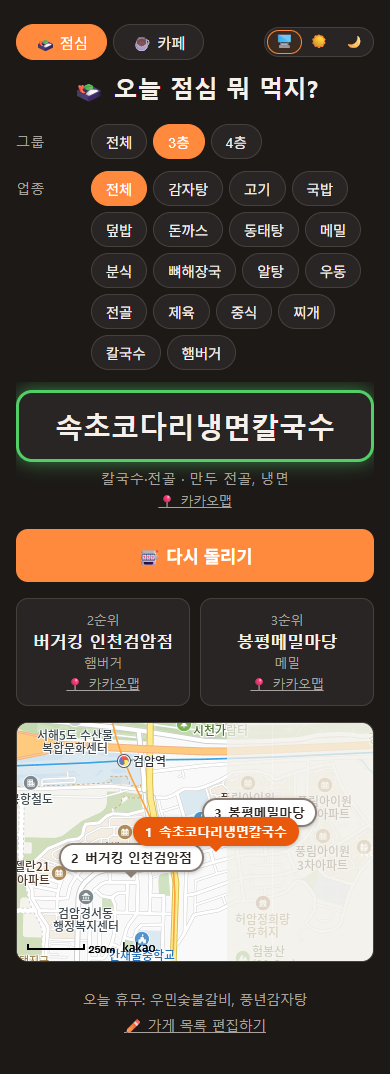
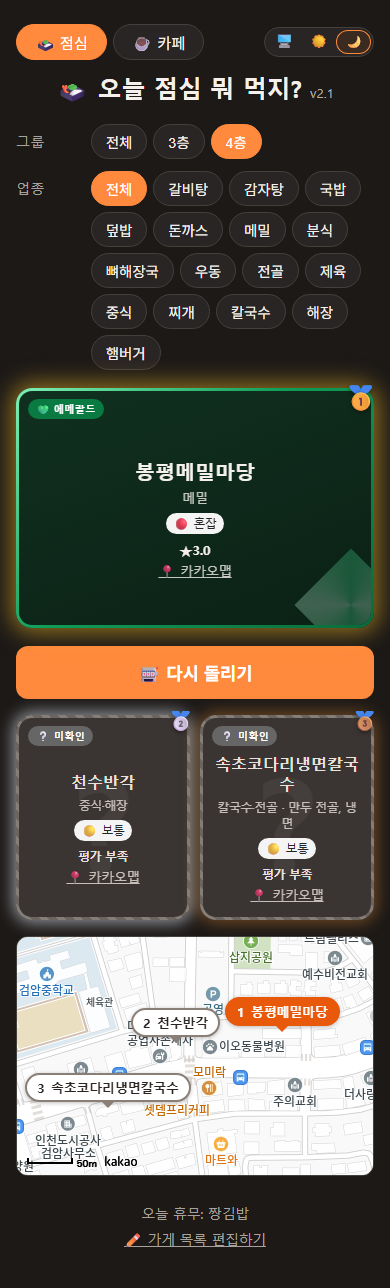
[2026-11-04] docs: README v2.1 정리(화면·데모 재촬영, 평가 창 이미지, 지역·혼잡도·좋아요 제거 배경)

diff --git a/docs/agents/handoffs/013-readme-v2.1.md b/docs/agents/handoffs/013-readme-v2.1.md
@@ -1,0 +1,43 @@
+# 013 README v2.1 정리 (문서·이미지)
+
+## 지시 (PM)
+- 배경(2026-11-04): v2.1 커밋·태그(`6486b4e`, `v2.1`)는 이미 푸시됨. README가 v2.1 화면·결정을 반영하지 못한 부분을 정리한 뒤 사용자가 main만 푸시하고, PM이 기존 `v2.1` 태그로 릴리스를 만든다. **태그는 건드리지 않는다.**
+- 변경 (모두 `README.md`와 `docs/images/`만, 소스 변경 없음 → `npm run bump` 불필요):
+  1. 맨 끝 가운데 정렬 블록 아래에 붙은 `릴리스 때 js/config.js의 APP_VERSION을 갱신합니다.` 줄 삭제(같은 안내가 `docs/SETUP.md`에 있는지 확인, 없으면 SETUP 배포 절로 옮김).
+  2. 화면 이미지 재촬영: `docs/images/lunch-light.png`, `lunch-dark.png`, `cafe-light.png`, `cafe-dark.png`, `demo.gif`를 현재 화면(제목 옆 `v2.1`, 결과 카드 혼잡도 배지, 등급 카드)으로 교체. 기존 파일과 같은 이름·비슷한 크기/비율 유지.
+     - **실제 게시 시트 데이터**로 찍는다(가짜 가게명 금지). 지도까지 나오게 하려면 로컬 서버를 **반드시 `localhost:5173`**으로 띄운다(카카오 키 허용 도메인). 현재 실제 시트는 지역이 `검암` 하나라 지역 줄은 안 보이는 것이 정상.
+     - 평가 창이 뜨지 않게(저장된 `last-pick` 없음) 찍는다. **실제 구글 폼 전송 금지.**
+     - `demo.gif`: 기존과 같은 흐름(돌리기 → 감속 → 2·3순위 → 1순위 공개 → 지도). GIF 인코딩은 이미 설치된 Python Pillow 사용 가능(프로젝트 의존성 추가 금지). 파일 크기는 기존 GIF와 비슷한 수준(크게 늘면 프레임·색 수 조정).
+  3. 동작 다이어그램(mermaid): `그룹·업종·휴무 필터` → `지역·그룹·업종·휴무 필터`. 구조 절의 `select.js` 설명도 `지역·그룹·업종·휴무 필터, 추첨`으로.
+  4. "🧠 고민했던 것들"에 `<details>` 항목 추가(기존 문체: 존댓말 구어체, 배경 → 결정 → 이유 짧게):
+     - **지역이 늘어도 코드를 고치지 않으려면** — 지역별 시트 탭 대신 `지역` 열(탭마다 gid 설정이 필요해지는 문제), 지역은 서로 겹치지 않아 `전체` 없음·하나만 선택, 그룹은 지역 안의 선택 단계, 지역별 마지막 그룹 기억, 지역 하나면 지역 줄 숨김(기존 화면 그대로), 같은 이름 체인점이 섞이지 않게 평점 키를 `모드+지역+가게명`으로.
+     - **혼잡도는 '확률'이 아니라 '정보'로** — 붐비는 곳을 덜 뽑으면 결과를 예측하기 어려워지고 공정한 랜덤이라는 원칙과 부딪힘 → 카드에 표시만 하고 2순위로 갈지는 사람이 판단.
+     - **좋아요를 뺀 이유** — 실제 응답을 보니 좋아요만 누른 경우 0건, 늘 별점과 같이 와 새 정보가 없었음 → 평가 창을 별점 하나로 단순화. (평가 창 배치를 "여러 대상 평가 = 이름 왼쪽·별 오른쪽"으로 정한 것도 한 줄 언급 가능)
+  5. 화면 절에 평가 창 스크린샷 1장 추가(`docs/images/rating.png`, 라이트, 가짜 설정의 복사본으로 찍어도 됨 — 단 가게명은 실제 시트 이름 사용, 전송 금지). 상단 배지 줄에 버전 배지 `![Version](https://img.shields.io/badge/version-v2.1-e8590c)` 추가.
+- DoD:
+  - D-1 README 렌더링 확인(로컬 마크다운 미리보기 또는 원문 대조): 이미지 경로 6개(4 PNG + GIF + rating.png) 모두 존재, mermaid 문법 깨짐 없음.
+  - D-2 새 이미지들을 직접 열어 확인: 버전 표시·혼잡도 배지 보임, 실제 가게명, 라이트/다크 구분. GIF 재생 흐름 정상, 파일 크기 기재(전/후).
+  - D-3 새 `<details>` 3개의 사실관계가 코드·인계 파일(006, 010)과 일치.
+  - D-4 `npm test` 전부 PASS(문서만 바꿨는지 확인), `git status`에 README·docs/images·이 인계 파일·worklog만.
+- 끝나면 아래 "구현 보고 1차" 절을 채우고 `herdr agent prompt lunch-pm "[codex→pm] 완료 013 구현 1차. 상세: docs/agents/handoffs/013-readme-v2.1.md"`를 보내고 턴을 끝낸다. 커밋하지 않는다.
+
+## 구현 보고 1차 (코덱스)
+
+- 변경 파일: `README.md`, `docs/images/lunch-light.png`, `lunch-dark.png`, `cafe-light.png`, `cafe-dark.png`, `demo.gif`, 신규 `rating.png`, 이 인계 파일·`docs/agents/worklog.md`만. 소스·설정·태그 변경 없음, bump 불필요.
+- README: 하단 APP_VERSION 안내 제거(SETUP 118행에 기존 안내 있음을 확인해 SETUP 변경 없음), Version v2.1 배지·평가 창 이미지 추가, Mermaid/구조 select.js 설명에 지역 반영, 지역 확장·혼잡도 정보 표시·좋아요 제거 배경의 details 3개 추가.
+- 촬영: **http://localhost:5173**에서 현재 소스를 그대로 제공하고 실제 게시 CSV·실제 평점 CSV·카카오 SDK/지도로 촬영. 지역 검암1개로 지역 줄 숨김 확인. 점심4층 결과는 봉평메밀마당(실제 평균3.0/에메랄드)·천수반각·속초코다리냉면칼국수, 카페4층 결과는 빽다방 인천검암2지구점·예그리나커피·떠기다방 검암점. 카페는 실제 평점 데이터가 없어 미확인 그대로 표현. 비교용 테마 캡처를 같은 결과로 맞추기 위해 촬영 중 난수 시드만 고정했고 데이터·등급·주소는 바꾸지 않음.
+- 실제 폼 전송 없음: 촬영 브라우저에서 POST fetch를 거부하도록 설정하고 보내기를 누르지 않음. 일반 결과 촬영은 last-pick 없는 초기 프로필 사용. rating.png만 실제 가게명3개로 기기 내 추천 기록을 만들어 평가 창을 열고 금복돈육식당4점 선택(전송 없음). 정적 캡처는 지도 위치까지 스크롤해 타일이 표시된 뒤 전체 화면을 촬영.
+- 이미지 크기: 기존 폭390px 유지. 점심 PNG 390×1074→390×1288, 카페390×1000→390×1110(현재 필터·휴무·지도·편집 링크까지 전체 페이지 포함). rating390×1074. GIF는 기존과 동일390×860.
+- GIF 전/후: **1,797,701→1,865,459 bytes(약+3.8%)**, 기존69프레임→최종54프레임(78개100ms 간격 원본에서 중복 프레임 병합), 96색·8.92초·무한 반복. 실제 기본 모션으로 돌리기→이름 감속→?→2순위→3순위→1순위 공개/폭죽→지도까지 기록하고 아래로 스크롤해 최종 지도를 보여줌. 최종 지도에서는 폭죽이 끝난 상태로 잠시 유지. 새 프로젝트 의존성 없이 기존 Pillow 사용.
+- DoD 자가 체크:
+  - [x] D-1: README 원문 대조. 서로 다른 이미지 경로6개(4PNG+GIF+rating) 모두 존재. details9개 열림/닫힘 균형, Mermaid는 기존2개 subgraph/end·연결 구조 그대로 두고 필터 라벨만 수정해 문법 유지. 버전 안내는 SETUP에 보존.
+  - [x] D-2: 새 PNG5개 직접 열어 v2.1·혼잡도·실제 이름·테마·지도 확인. 최종 인코딩 GIF를 디코딩해 0~8초12개 시점의 이미지/시간을 대조, 감속·2→3→1 공개·지도 흐름 확인. 파일 크기 위 기재.
+  - [x] D-3: details3개를 006·010 지시 및 현행 코드의 지역 선택/저장·평점 키·혼잡도 비가중치·별점만 전송/집계와 대조, 일치.
+  - [x] D-4: `npm test` **83 pass / 0 fail**, `git diff --check` 통과. git status는 README·docs/images·이 인계 파일·worklog만. 소스 변경·커밋·푸시·태그 변경·릴리스 생성 없음.
+- 재현 도구(저장소 밖): `C:/Users/root/AppData/Local/Temp/lunch013-capture.mjs`(실제 화면·GIF 원본), `lunch013-stills.mjs`(지도 타일 로드 후 최종 PNG), `lunch013-gif.py`(인코딩), `lunch013-gif-check.py`(최종 GIF 타임라인), `lunch013-readme-check.py`(원문 검증). node 스크립트는 프로젝트 루트에서 실행, 임시 프레임·브라우저 프로필은 `lunch013-capture/`에 있음.
+- 설계와 다르게 한 점 / 질문: 없음.
+
+## PM 검증 1차 (클로드)
+- 결과: **통과** (D-1~D-4)
+- 확인: `npm test` 83 pass, `git status` 문서·이미지만. README diff 검토(배지·평가 창 이미지·다이어그램/구조 지역 반영·details 3개·하단 줄 삭제), 사실관계 006·010과 일치. `lunch-light.png`(v2.1·혼잡도·에메랄드·실제 지도), `rating.png`(실제 가게명, 이름 왼쪽·별 오른쪽) 직접 확인.
+- 사용자 요청으로 PM이 커밋(태그 변경 없음). 사용자 main 푸시 후 PM이 `v2.1` 릴리스 생성.

diff --git a/README.md b/README.md
@@ -14,6 +14,7 @@
 ![No Build](https://img.shields.io/badge/Build-없음-2f9e44)
 ![Dependencies](https://img.shields.io/badge/dependencies-0-2f9e44)
 ![Tests](https://img.shields.io/badge/tests-83_passing-2f9e44)
+![Version](https://img.shields.io/badge/version-v2.1-e8590c)
 
 <img src="docs/images/demo.gif" alt="돌리기 버튼을 누르면 가게 이름이 빠르게 돌다가 멈추고, 폭죽과 함께 1순위가 정해진 뒤 2·3순위 카드와 지도가 나타나는 모습" width="320">
 
@@ -63,6 +64,10 @@
   </tr>
 </table>
 
+다녀온 가게는 이름 옆 별점으로 평가해요.
+
+<img src="docs/images/rating.png" alt="가게명 왼쪽·별점 오른쪽 배치의 평가 창에서 금복돈육식당에 4점을 선택한 모습" width="320">
+
 ## ⚙ 어떻게 동작하나요
 
 서버가 하나도 없어요. 정적 파일은 GitHub Pages가, 데이터는 구글 시트가, 지도는 카카오가 맡고 나머지는 전부 브라우저에서 일어나요.
@@ -80,7 +85,7 @@ flowchart LR
     subgraph B["브라우저 (GitHub Pages)"]
         direction TB
         P["CSV 파싱<br/>csv.js"] --> N["가게 정규화<br/>stores.js"]
-        N --> F["그룹·업종·휴무 필터<br/>select.js"]
+        N --> F["지역·그룹·업종·휴무 필터<br/>select.js"]
         F --> R["1·2·3순위 추첨<br/>Fisher–Yates"]
         P --> G["평점 집계 · 카드 등급<br/>rating.js"]
         R --> A["가챠 카드 · 폭죽<br/>app.js · animation.js"]
@@ -94,6 +99,35 @@ flowchart LR
 ```
 
 ## 🧠 고민했던 것들
+
+<details>
+<summary><b>지역이 늘어도 코드를 고치지 않으려면</b></summary>
+
+검암에서 쓰던 목록에 다른 지역도 담고 싶어졌어요. 지역마다 시트 탭을 만들면 새 지역을 추가할 때마다 코드에 `gid`를 설정해야 해서, 기존 점심·카페 탭 안에 **`지역` 열**을 두기로 했어요.
+
+- 서로 다른 지역의 가게를 섞어 뽑을 일은 없어 지역에는 **[전체] 없이 하나만** 고르게 했어요. 그룹은 그 지역 안에서 필요할 때 고르는 단계예요.
+- 지역을 오갈 때마다 그룹을 다시 고르지 않도록 **지역별 마지막 그룹**을 기억해요. 지역이 하나면 지역 줄을 숨겨 기존처럼 바로 쓸 수 있어요.
+- 이름이 같은 체인점의 평가가 섞이지 않게 평점 키도 **모드 + 지역 + 가게명**으로 나눴어요.
+
+</details>
+
+<details>
+<summary><b>혼잡도는 '확률'이 아니라 '정보'로</b></summary>
+
+늘 붐비는 가게라면 자리가 없을 수도 있어요. 그렇다고 혼잡한 곳이 덜 뽑히게 만들면, 목록의 가게를 같은 확률로 뽑는 원칙과 부딪히고 결과를 예상하기도 어려워져요.
+
+그래서 혼잡도는 **카드에 표시만** 하기로 했어요. 오늘은 기다릴지, 함께 나온 2순위로 갈지는 사람이 판단하면 돼요.
+
+</details>
+
+<details>
+<summary><b>좋아요를 뺀 이유</b></summary>
+
+처음에는 별점과 좋아요를 함께 받았어요. 실제 응답을 보니 **좋아요만 누른 경우는 없고 늘 별점과 함께** 와서, 별점에 더해 알 수 있는 정보가 없었어요.
+
+평가 창을 **별점 하나로 단순화**하고, 여러 가게를 차례로 평가하기 편하게 이름은 왼쪽, 별은 오른쪽에 놓았어요. 기존 폼 질문과 응답은 남겨 둬도 앱에서 보내거나 집계하지 않아요.
+
+</details>
 
 <details>
 <summary><b>DB 없이 "누구나 고칠 수 있는" 데이터를 어디에 둘까?</b></summary>
@@ -182,7 +216,7 @@ lunch-selector/
 │  ├─ csv.js           # CSV 파서
 │  ├─ stores.js        # 행 → 가게 정규화 (휴무·다중 값 파싱)
 │  ├─ data.js          # 불러오기 (10초 제한 시간, 최신 요청만 반영)
-│  ├─ select.js        # 그룹·업종·휴무 필터, 추첨
+│  ├─ select.js        # 지역·그룹·업종·휴무 필터, 추첨
 │  ├─ rating.js        # 평점 집계 · 카드 등급 · 평가 시점 판정
 │  ├─ animation.js     # 릴 · 폭죽 · 순차 페이드 인
 │  ├─ map.js           # 지오코딩 캐시 · 지도 핀 · 카카오맵 링크
@@ -208,4 +242,3 @@ npm test   # Node 22+
 **오늘 점심은 정하셨나요? → [🎰 돌리러 가기](https://colossuscms.github.io/lunch-selector/)**
 
 </div>
-릴리스 때 `js/config.js`의 `APP_VERSION`을 갱신합니다.

diff --git a/docs/agents/worklog.md b/docs/agents/worklog.md
@@ -29,3 +29,5 @@
 - 2026-11-04 10:45 [pm] 사이클 011 완료: 에메랄드 1순위 카드 빈 스크롤 수정 — 장식을 넘침 잘라내는 .card-deco 층으로 이동 (js/app.js, css/style.css, screenshots/011) — DoD 6/6, npm test 83 pass
 - 2026-11-04 10:50 [codex] 사이클 012 구현 1차: 제목 옆 APP_VERSION v2.1 표시 (js/config.js·app.js, index.html, css, README, SETUP 외 버전/기록) — npm test 83 pass, Chrome 모드 전환/빈 버전/360·400 라이트·다크 PASS, screenshots/012 8개
 - 2026-11-04 10:55 [pm] 사이클 012 완료: 제목 옆 앱 버전 표시(APP_VERSION v2.1) (js/config.js·app.js, index.html, css, README, SETUP, screenshots/012) — DoD 4/4, npm test 83 pass. 010~012 커밋 + 로컬 태그 v2.1(사용자 요청)
+- 2026-11-04 11:02 [codex] 사이클 013 구현 1차: README v2.1 배지·지역 다이어그램·결정 배경3개·실제 시트 이미지/GIF 재촬영 (README.md, docs/images 6개) — npm test 83 pass, 실제 localhost:5173 지도·PNG/GIF 확인, GIF 1,797,701→1,865,459bytes, 소스/태그 변경 없음
+- 2026-11-04 11:20 [pm] 사이클 013 완료: README v2.1 정리(실데이터 스크린샷·데모 GIF 재촬영, 평가 창 이미지, 지역·혼잡도·좋아요 제거 고민 3개, 버전 배지) (README.md, docs/images) — DoD 4/4, npm test 83 pass
